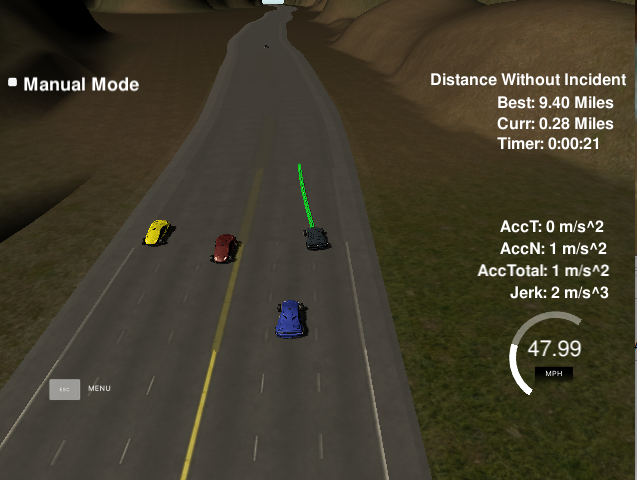
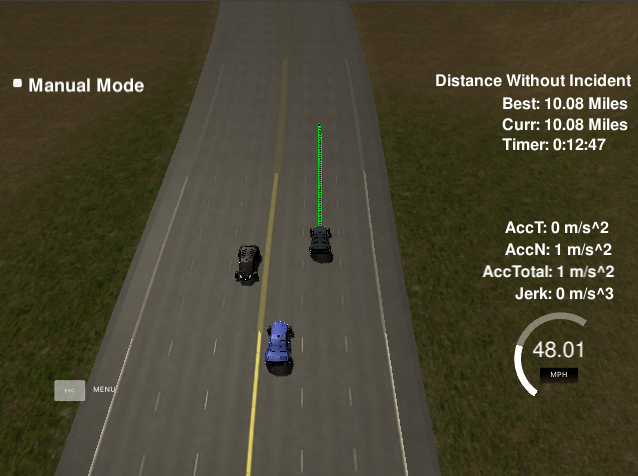
Last edits to report

diff --git a/README.md b/README.md
@@ -1,12 +1,12 @@
 # CarND-Path-Planning
+## James DiDonato
+### Udacity Self Driving Car Engineer Nanodegree - January 2019
+
 
 This project was completed as part of my enrollment in the  Self Driving Car Engineer Nanodegree from Udacity.
 
-## James DiDonato
-## Udacity Self Driving Car Engineer Nanodegree - January 2019
-
-### Requirements
-In this project my goal is to safely navigate a vehicle autonomously around a virtual highway with other traffic. The other traffic is driving +-10 MPH of the 50 MPH speed limit. You will be provided the car's localization and sensor fusion data, there is also a sparse map list of waypoints around the highway. The car should try to go as close as possible to the 50 MPH speed limit, which means passing slower traffic when possible, note that other cars will try to change lanes too. The car should avoid hitting other cars at all cost as well as driving inside of the marked road lanes at all times, unless going from one lane to another. The car should be able to make one complete loop around the 6946m highway. Since the car is trying to go 50 MPH, it should take a little over 5 minutes to complete 1 loop. Also the car should not experience total acceleration over 10 m/s^2 and jerk that is greater than 10 m/s^3.
+## Requirements
+In this project the goal is to safely navigate a vehicle autonomously around a virtual highway with other traffic. The other traffic is driving +-10 MPH of the 50 MPH speed limit. You will be provided the car's localization and sensor fusion data, there is also a sparse map list of waypoints around the highway. The car should try to go as close as possible to the 50 MPH speed limit, which means passing slower traffic when possible, note that other cars will try to change lanes too. The car should avoid hitting other cars at all cost as well as driving inside of the marked road lanes at all times, unless going from one lane to another. The car should be able to make one complete loop around the 6946m highway. Since the car is trying to go 50 MPH, it should take a little over 5 minutes to complete 1 loop. Also the car should not experience total acceleration over 10 m/s^2 and jerk that is greater than 10 m/s^3.
 
 [//]: # (Image References)
 
@@ -14,44 +14,39 @@ In this project my goal is to safely navigate a vehicle autonomously around a vi
 [image2]: ./ReportImages/run2.png "Run2"
 [image3]: ./ReportImages/FSM.png "FSM"
 
-
-
-
-
-### Reflection
-
-
+## Reflection
 
 #### Summary
 
-I was able to succesfully complete the project, here are some photos illustrating two succesfully runs :
+I was able to succesfully complete the project, here are some photos illustrating two succesfully runs of longer than 10 minutes of driving without incident in an efficient manner:
 
 ![alt text][image1]
+
 ![alt text][image2]
 
 #### Behavioural Planning
 
-A Finite State Machine (FSM) with three states is used to manage the decision making: Lane Change Left, Lane Change Right, and Keep Lane. After starting out in the Keep Lane state (the vehicle needs to get up to speed before making lane changes),a cost is calculated for each of the three states and the finite state machine transitions to the state with the lowest cost, esentially deciding whether to switch lanes or stay in the same lane. If a decision to switch lanes has been made, the desired lane is passed to the trajectory generator that executes the lane change. Here is the FSM depicted visually:
+A Finite State Machine (FSM) with three states is used to manage the decision making: Lane Change Left, Lane Change Right, and Keep Lane. After starting out in the Keep Lane state (the vehicle needs to get up to speed before making lane changes), a cost is calculated for each of the three states and the finite state machine transitions to the state with the lowest cost, esentially deciding whether to switch lanes or stay in the same lane. If a decision to switch lanes has been made, the desired lane is passed to the trajectory generator that executes the lane change. Here is the FSM depicted visually:
 
 ![alt text][image3]
 
 
-There are three cost functions that make up the state transition function are described:
+The three cost functions that make up the state transition function are described:
 
-** Out of Center Lane Cost **
+**Out of Center Lane Cost**
 - A cost is assigned to a state if it will move the vehicle outside of the center lane. This is done to motivate the ego vehicle to lane change back into the center lane, partly because the center lane is the safest highway lane to drive in and in some jurisdictions it is illegal to "hang out" in the left lane on the highway. Therefore making a return to the center lane vital to abiding by the law and driving safely.
 
-** Rear End Collision Cost**
+**Rear End Collision Cost**
 - A cost is assigned for the potential of colliding with the closest in lane vehicle. This is done to motivate the vehicle to pass slow cars. The cost increases linearly as the ego vehicle approaches the potential threat and is calibrated to force a lane change at a safe distance, in sensible manner. If the ego vehicle manages to get too close, the cost will be zero to avoid colliding with the vehicle while making the lane change ( because the trajectory planner does not cover this edge case ).
 
-** Open Space  **
-- This cost is designed to discourage the ego vehicle from causing a collision during a lane change. Adjacent lanes are checked for the existance of a vehicle within a gap spanning from behind ego (to ensure we don't cut anyone off) and sufficiently in front of ego (enough to justify a lane change), about 50m. A cost is computed based on the presence of a vehicle in this gap and increases depending on how close it is to the back. These costs are only calculated for the Lane Changing states, as there is no threat to a collision while changing lanes if we just want to stay in our lane.
+**Open Space**
+- This cost is designed to discourage the ego vehicle from causing a collision during a lane change. Adjacent lanes are checked for the existance of a vehicle within a gap spanning from behind ego (to ensure we don't cut anyone off) and sufficiently in front of ego (enough to justify a lane change), about 50m. A cost is computed based on the presence of a vehicle in this gap and increases depending on how close it is to the 'back' of said gap. These costs are only calculated for the Lane Changing states, as there is no threat to a collision while changing lanes if we just want to stay in our lane.
 
 Significant time was spent tuning the weights of each cost functions to ensure that the behaviours were safe and efficient. 
 
 #### Trajectory Generation
 
-The trajectory is generated using a combination of the previous path, the map waypoints, and the spline.h library.  Each iteration, a spline is generated using several points starting with the two starting points of the current path, and then three waypoints at 40,60,and 90m down the road. It is important to note that the three points down the road are located in the target lane, which is provided from the behaviour trajectory finite state machine. The spline is generated using these 5 points and provides a smooth trajectory for the vehicle to follow. The longitudinal increment between each spline point is generated based on the reference velocity. The higher the velocity, the further each point is spaced out.
+The trajectory is generated using a combination of the previous path, the map waypoints, and the spline.h library.  Each iteration, a spline is generated using several points starting with the two starting points of the current path, and then three waypoints at 40,60,and 90m down the road. It is important to note that the three points down the road are located in the target lane, which is generated as a result of the FSM Behaviour Planner. The spline is generated using these 5 points and provides a smooth trajectory for the vehicle to follow. The longitudinal increment between each spline point is generated based on the reference velocity. The higher the velocity, the further each point is spaced out.
 
 
 The trajectory itself consists of 60 points in total, of which 30 are re-used from the previous un-used path. By re-using the path we are able to control the vehicle more precisely which is especially important when travelling around the corners at higher speeds. Also, it makes the program more efficient, saving the time required to compute the new points. A downside of using points from the previous path is that the adaptive cruise control algorithm that prevents a rear-end collision is slower to respond and exhibhits hysteresis when slowing down and speeding up. The total number of points also influences the trajectory. If the number of points is too long, then the ego vehicle would take very long to change lanes and be at risk for colliding with other cars. Too short and the the lane changes are quick and abrupt, casuing the jerk and acceleration values to exceed their allowable thresholds. 60 points was a happy medium.
@@ -66,8 +61,6 @@ The trajectory itself consists of 60 points in total, of which 30 are re-used fr
 
 ## Simulator.
 In order to run this program, you will need to download the Udacity Term3 Simulator which contains the Path Planning Project from the [releases tab (https://github.com/udacity/self-driving-car-sim/releases/tag/T3_v1.2).
-
-
 
 ## Dependencies
 
